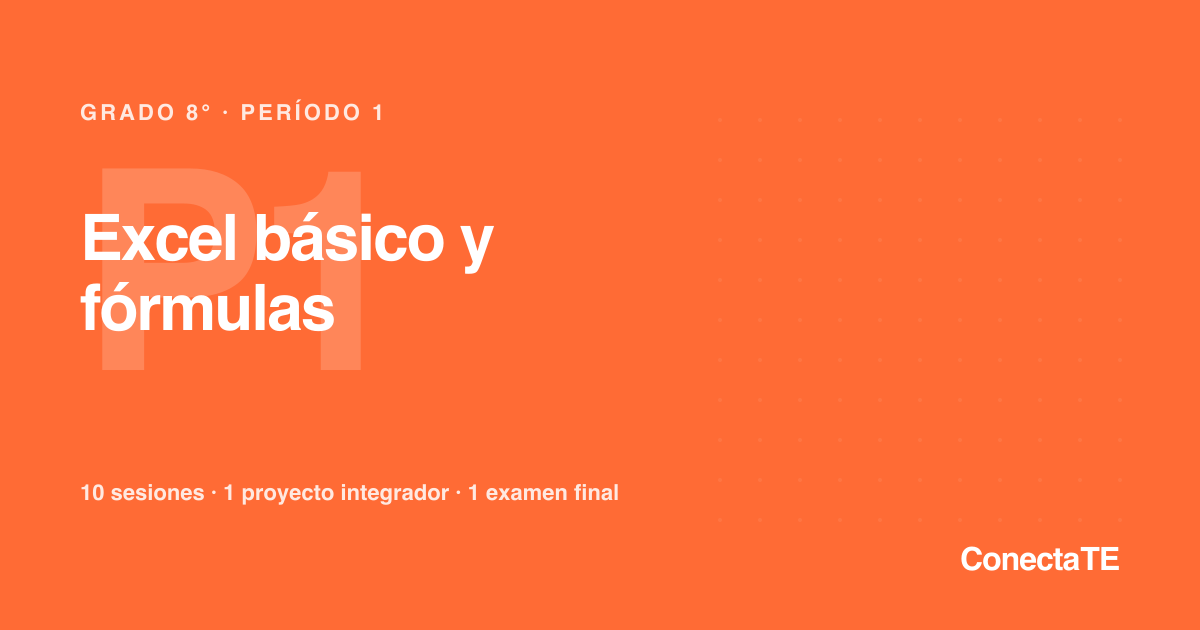
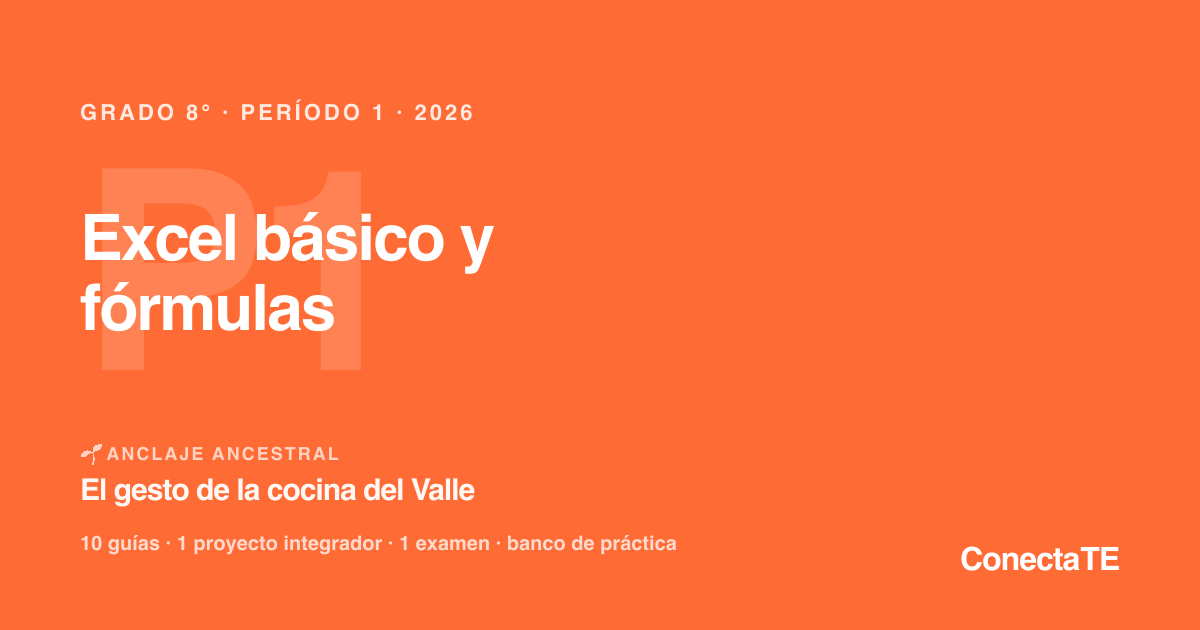
feat(og): imágenes Open Graph 2026 con anclajes y temas por grado
Refresh visual de las 27 imágenes OG que aparecen al compartir enlaces
por WhatsApp, Facebook, X. Actualiza la información desactualizada y
suma diferenciadores institucionales del corpus MILC v3.

Cambios por template:

1. tplPlanArea: 2025 → 2026. Paleta cambia a vino institucional MILC
   con acento mostaza. Suma '216 piezas curriculares activas' como
   estadística destacada y menciona Pipeline MILC v3.

2. tplPeriodo: agrega banda con ANCLAJE ANCESTRAL 🌱 + nombre del
   oficio del Valle/Pacífico para los 18 períodos. Pregonero, minga,
   doña Sofía, consejero del barrio, etc. ahora son visibles al
   compartir. También suma '· 2026' y reemplaza el contador de stats
   (incluye 'banco de práctica').

3. tplGrado: en lugar del título genérico antiguo, lista los 3 temas
   de los 3 períodos del grado (uno por línea). Más informativo y
   permite que el receptor del link entienda de qué se trata el grado.

4. Sin cambios: tplHome (números aún vigentes), tplAcerca.

Cambios técnicos:
- scripts/generate-og.ts: importa anclajesAncestrales del plan de área
  y construye un mapa por grado-periodo.
- Las 24 imágenes de grados/períodos/plan se regeneran (home + acerca
  quedan idénticas).
- Bump SW v29 → v30 para invalidar caché de las OG en clientes.

Changed region(s): [[0.0617, 0.6937, 0.5242, 0.8143], [0.0617, 0.8444, 0.5858, 0.8746], [0.3392, 0.1508, 0.4008, 0.2111]]

diff --git a/scripts/generate-og.ts b/scripts/generate-og.ts
@@ -15,6 +15,12 @@ import sharp from 'sharp';
 import { mkdirSync, writeFileSync } from 'node:fs';
 import { dirname, resolve } from 'node:path';
 import { grados } from '../src/data/grados';
+import { anclajesAncestrales } from '../src/data/planArea';
+
+const ANCLAJE_POR_PERIODO: Record<string, { oficio: string }> = {};
+for (const a of anclajesAncestrales) {
+  ANCLAJE_POR_PERIODO[`${a.grado}-${a.periodo}`] = { oficio: a.oficio };
+}
 
 const OUT_DIR = resolve('public/og');
 const W = 1200;
@@ -129,31 +135,33 @@ function tplHome(): string {
 
 function tplGrado(grado: typeof grados[number]): string {
   const c = COLOR[grado.bgClass] ?? COLOR['bg-bento-blue'];
-  const lineasTit = textoEnLineas(grado.titulo, 28, 2);
+  // 3 chips con los temas de los 3 periodos
+  const chips = grado.periodos.map((p, i) => {
+    const x = 80;
+    const y = 470 + i * 60;
+    const titulo = truncar(p.titulo, 48);
+    return `
+      <text x="${x}" y="${y}" fill="${c.fg}" opacity="0.95" font-family="Helvetica, sans-serif" font-weight="700" font-size="24" letter-spacing="-0.5">
+        <tspan opacity="0.6">P${p.numero} ·</tspan> ${esc(titulo)}
+      </text>`;
+  }).join('');
   return `<svg xmlns="http://www.w3.org/2000/svg" width="${W}" height="${H}" viewBox="0 0 ${W} ${H}">
     <rect width="${W}" height="${H}" fill="${c.bg}"/>
     ${patternDots(0.07)}
     <!-- Etiqueta superior -->
     <text x="80" y="120" fill="${c.fg}" opacity="0.85" font-family="Helvetica, sans-serif" font-weight="700" font-size="22" letter-spacing="3">
-      ${esc('GRADO · TECNOLOGÍA E INFORMÁTICA')}
+      ${esc('GRADO · TECNOLOGÍA E INFORMÁTICA · 2026')}
     </text>
-    <!-- Número grande del grado -->
-    <text x="80" y="430" fill="${c.fg}" font-family="Helvetica, sans-serif" font-weight="900" font-size="380" letter-spacing="-15">
+    <!-- Número grande del grado (a la izquierda, no tan dominante) -->
+    <text x="80" y="380" fill="${c.fg}" font-family="Helvetica, sans-serif" font-weight="900" font-size="320" letter-spacing="-15" opacity="0.95">
       ${grado.numero}°
     </text>
-    <!-- Icono del grado en esquina -->
+    <!-- Icono del grado en esquina superior derecha -->
     <text x="${W - 100}" y="200" fill="${c.fg}" font-family="Helvetica, sans-serif" font-size="120" text-anchor="end">
       ${grado.icono}
     </text>
-    <!-- Título del grado -->
-    ${lineasTit
-      .map(
-        (l, i) => `
-      <text x="80" y="${510 + i * 50}" fill="${c.fg}" font-family="Helvetica, sans-serif" font-weight="900" font-size="42" letter-spacing="-1">
-        ${esc(l)}
-      </text>`,
-      )
-      .join('')}
+    <!-- Tres temas (uno por periodo) -->
+    ${chips}
     <!-- Wordmark esquina -->
     ${wordmark(W - 240, H - 60, c.fg, c.fg === '#FFFFFF' ? '#FFFFFF' : '#0066FF')}
   </svg>`;
@@ -162,15 +170,17 @@ function tplGrado(grado: typeof grados[number]): string {
 function tplPeriodo(grado: typeof grados[number], periodo: typeof grados[number]['periodos'][number]): string {
   const c = COLOR[periodo.bgClass] ?? COLOR['bg-bento-blue'];
   const lineasTit = textoEnLineas(periodo.titulo, 22, 2);
+  const anclaje = ANCLAJE_POR_PERIODO[`${grado.numero}-${periodo.numero}`];
+  const oficio = anclaje ? truncar(anclaje.oficio, 50) : '';
   return `<svg xmlns="http://www.w3.org/2000/svg" width="${W}" height="${H}" viewBox="0 0 ${W} ${H}">
     <rect width="${W}" height="${H}" fill="${c.bg}"/>
     ${patternDots(0.07)}
     <!-- Etiqueta superior -->
     <text x="80" y="120" fill="${c.fg}" opacity="0.85" font-family="Helvetica, sans-serif" font-weight="700" font-size="22" letter-spacing="3">
-      ${esc(`GRADO ${grado.numero}° · PERÍODO ${periodo.numero}`)}
+      ${esc(`GRADO ${grado.numero}° · PERÍODO ${periodo.numero} · 2026`)}
     </text>
-    <!-- Número grande del período -->
-    <text x="80" y="370" fill="${c.fg}" font-family="Helvetica, sans-serif" font-weight="900" font-size="280" letter-spacing="-12" opacity="0.18">
+    <!-- Número grande del período (fondo decorativo) -->
+    <text x="80" y="370" fill="${c.fg}" font-family="Helvetica, sans-serif" font-weight="900" font-size="280" letter-spacing="-12" opacity="0.16">
       P${periodo.numero}
     </text>
     <!-- Título del período -->
@@ -182,9 +192,17 @@ function tplPeriodo(grado: typeof grados[number], periodo: typeof grados[number]
       </text>`,
       )
       .join('')}
+    <!-- Anclaje ancestral (nuevo · ancla cultural del periodo) -->
+    ${oficio ? `
+    <text x="80" y="${H - 170}" fill="${c.fg}" opacity="0.7" font-family="Helvetica, sans-serif" font-weight="700" font-size="18" letter-spacing="2">
+      ${esc('🌱 ANCLAJE ANCESTRAL')}
+    </text>
+    <text x="80" y="${H - 130}" fill="${c.fg}" opacity="0.95" font-family="Helvetica, sans-serif" font-weight="700" font-size="30" letter-spacing="-1">
+      ${esc(oficio)}
+    </text>` : ''}
     <!-- Sub-stats -->
-    <text x="80" y="${H - 130}" fill="${c.fg}" opacity="0.85" font-family="Helvetica, sans-serif" font-weight="600" font-size="22">
-      ${esc('10 sesiones · 1 proyecto integrador · 1 examen final')}
+    <text x="80" y="${H - 80}" fill="${c.fg}" opacity="0.75" font-family="Helvetica, sans-serif" font-weight="600" font-size="20">
+      ${esc('10 guías · 1 proyecto integrador · 1 examen · banco de práctica')}
     </text>
     <!-- Wordmark esquina -->
     ${wordmark(W - 240, H - 60, c.fg, c.fg === '#FFFFFF' ? '#FFFFFF' : '#0066FF')}
@@ -216,24 +234,30 @@ function tplAcerca(): string {
 
 function tplPlanArea(): string {
   return `<svg xmlns="http://www.w3.org/2000/svg" width="${W}" height="${H}" viewBox="0 0 ${W} ${H}">
-    <rect width="${W}" height="${H}" fill="#7C3AED"/>
+    <rect width="${W}" height="${H}" fill="#5A0038"/>
     ${patternDots(0.07)}
-    <text x="80" y="120" fill="#FFFFFF" opacity="0.85" font-family="Helvetica, sans-serif" font-weight="700" font-size="22" letter-spacing="3">
-      ${esc('PLAN DE ÁREA · 2025')}
+    <text x="80" y="120" fill="#FFD60A" opacity="0.95" font-family="Helvetica, sans-serif" font-weight="700" font-size="22" letter-spacing="3">
+      ${esc('PLAN DE ÁREA · 2026')}
     </text>
-    <text x="80" y="${H - 100}" fill="#FFFFFF" font-family="Helvetica, sans-serif" font-size="180" text-anchor="start">
+    <text x="${W - 80}" y="220" fill="#FFFFFF" opacity="0.25" font-family="Helvetica, sans-serif" font-size="180" text-anchor="end">
       📚
     </text>
-    <text x="80" y="320" fill="#FFFFFF" font-family="Helvetica, sans-serif" font-weight="900" font-size="80" letter-spacing="-2">
+    <text x="80" y="290" fill="#FFFFFF" font-family="Helvetica, sans-serif" font-weight="900" font-size="80" letter-spacing="-2">
       ${esc('Tecnología')}
     </text>
-    <text x="80" y="410" fill="#FFFFFF" font-family="Helvetica, sans-serif" font-weight="900" font-size="80" letter-spacing="-2">
+    <text x="80" y="380" fill="#FFFFFF" font-family="Helvetica, sans-serif" font-weight="900" font-size="80" letter-spacing="-2">
       ${esc('e Informática.')}
     </text>
-    <text x="80" y="490" fill="#FFFFFF" opacity="0.85" font-family="Helvetica, sans-serif" font-weight="600" font-size="28">
-      ${esc('Modelo MILC · Grados 6° a 11° · I.E. Sor María Juliana')}
+    <text x="80" y="450" fill="#FFD60A" font-family="Helvetica, sans-serif" font-weight="900" font-size="36" letter-spacing="-1">
+      ${esc('216 piezas curriculares activas')}
     </text>
-    ${wordmark(W - 240, H - 60, '#FFFFFF', '#FFFFFF')}
+    <text x="80" y="490" fill="#FFFFFF" opacity="0.85" font-family="Helvetica, sans-serif" font-weight="600" font-size="22">
+      ${esc('180 guías · 18 proyectos · 18 exámenes · Pipeline MILC v3')}
+    </text>
+    <text x="80" y="${H - 100}" fill="#FFFFFF" opacity="0.7" font-family="Helvetica, sans-serif" font-weight="600" font-size="20">
+      ${esc('Grados 6° a 11° · I.E. Sor María Juliana · Cartago')}
+    </text>
+    ${wordmark(W - 240, H - 60, '#FFFFFF', '#FFD60A')}
   </svg>`;
 }
 

diff --git a/public/sw.js b/public/sw.js
@@ -15,7 +15,7 @@
  * forzar invalidación de caché.
  */
 
-const VERSION = 'v29';
+const VERSION = 'v30';
 const BASE_PATH = '/plataformaconectate';
 
 const CACHE_SHELL = `conectate-shell-${VERSION}`;
